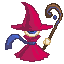
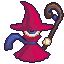
Cambios de diseño

diff --git a/bin/MagicSpacialShooter/client/renderer.py b/bin/MagicSpacialShooter/client/renderer.py
@@ -17,12 +17,25 @@ class Renderer:
         }
         self.default_texture = arcade.load_texture("resources/enemy_stay.png")
         self.local_texture = arcade.load_texture("resources/player_stay.png")
+        self.screen_texture = arcade.load_texture("resources/SpacialMagicScreen.png")
         self.player_list = arcade.SpriteList()
         
     def draw_background(self):
         """Dibuja el fondo del juego (espacio)"""
         arcade.set_background_color(BACKGROUND_COLOR)
-        
+
+        sprite = arcade.Sprite()
+        sprite.texture = self.screen_texture
+        sprite.center_x = 640
+        sprite.center_y = 360
+        sprite.angle = 0
+        sprite.scale = 1
+
+        # Agregar a la lista
+        temp = arcade.SpriteList()
+        temp.append(sprite)
+        temp.draw()
+        """
         # Dibujar áreas de UI (opciones y stats)
         # Área izquierda (opciones)
         arcade.draw_lrbt_rectangle_filled(
@@ -40,7 +53,8 @@ class Renderer:
         arcade.draw_lrbt_rectangle_filled(
             MAP_X_OFFSET, MAP_X_OFFSET + MAP_WIDTH, 0, MAP_Y_OFFSET,
             UI_BACKGROUND_COLOR
-        )
+        )]
+
         arcade.draw_lrbt_rectangle_filled(
             MAP_X_OFFSET, MAP_X_OFFSET + MAP_WIDTH, 
             MAP_Y_OFFSET + MAP_HEIGHT, SCREEN_HEIGHT,
@@ -55,7 +69,7 @@ class Renderer:
             y = MAP_Y_OFFSET + random.randint(0, MAP_HEIGHT)
             size = random.randint(1, 2)
             brightness = random.randint(150, 255)
-            arcade.draw_circle_filled(x, y, size, (brightness, brightness, brightness))
+            arcade.draw_circle_filled(x, y, size, (brightness, brightness, brightness))"""
     
     def draw_map_borders(self):
         """Dibuja los bordes del mapa"""
@@ -171,11 +185,11 @@ class Renderer:
 
 
             arcade.draw_lrbt_rectangle_filled(
-                left-1,
-                right+1,
-                bottom-1,
-                top+1,
-                arcade.color.WHITE
+                left-2,
+                right+2,
+                bottom-2,
+                top+2,
+                (41,20,68)
             )
             arcade.draw_lrbt_rectangle_filled(
                 left,

diff --git a/bin/MagicSpacialShooter/client/main_client.py b/bin/MagicSpacialShooter/client/main_client.py
@@ -58,7 +58,7 @@ class GameWindow(arcade.Window):
         
         # === RENDERIZADO DEL MAPA Y OBJETOS ===
         self.renderer.draw_background()
-        self.renderer.draw_map_borders()
+        #self.renderer.draw_map_borders()
         
         # === Power-ups ===
         self.renderer.draw_powerups(game_state.get('powerups', []))
